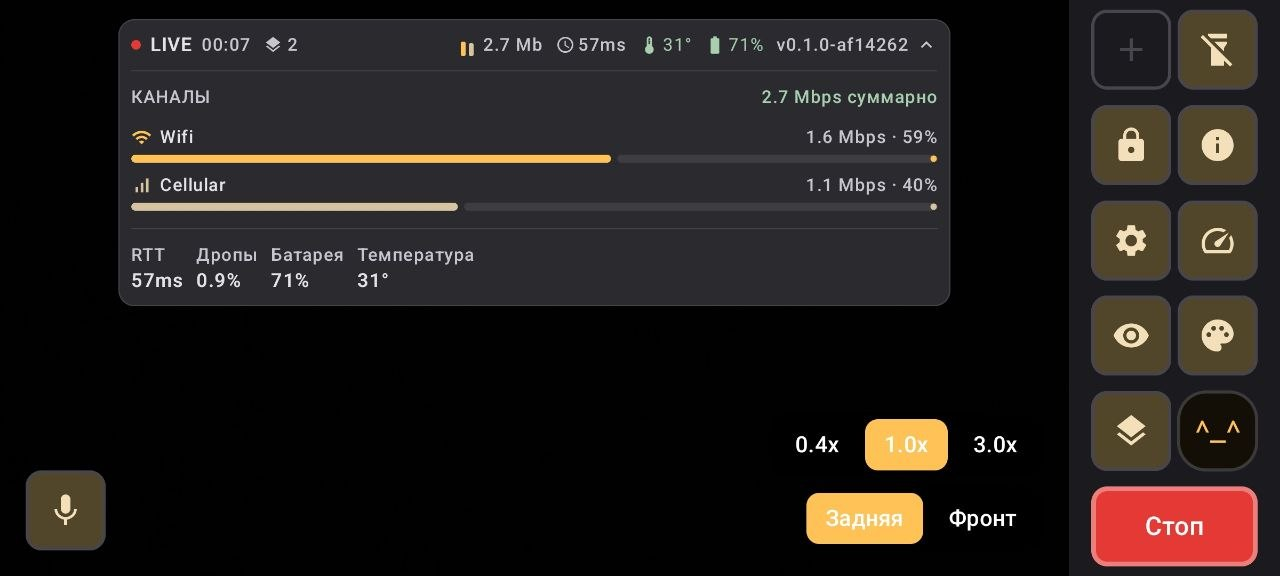
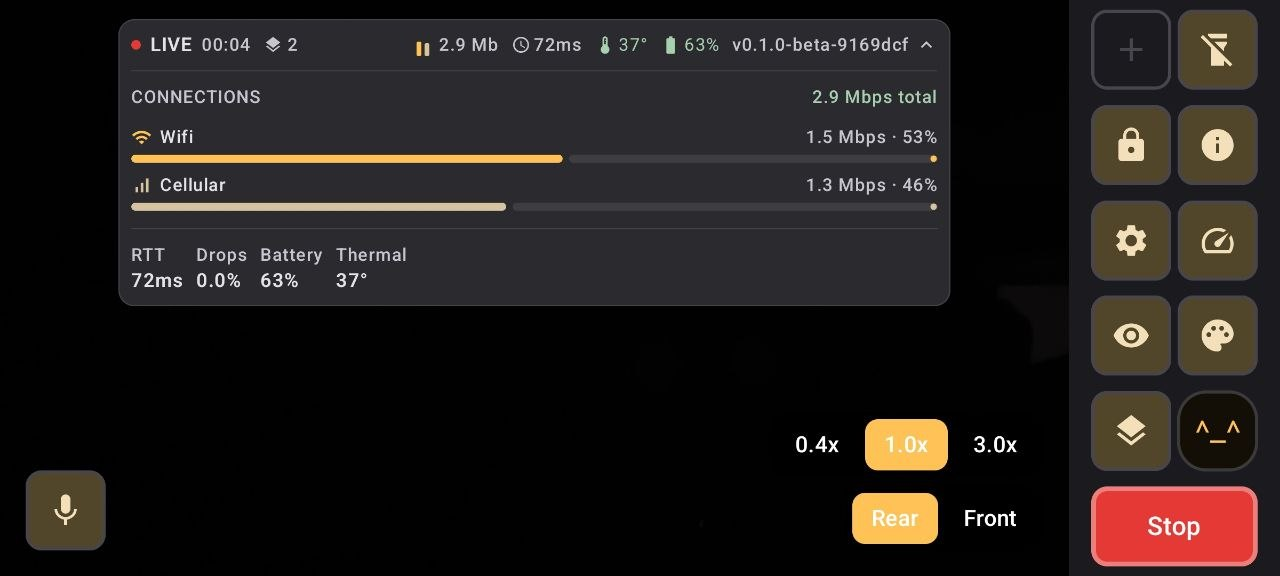
Перевод HUD, шаблоны issue, метаданные F-Droid
Две строки панели HUD были захардкожены по-русски при готовых переводах —
в английском интерфейсе показывались «Батарея» и «Температура».

Шаблоны issue: отчёт с устройства, ошибка, ссылка на обсуждения.
Метаданные F-Droid на двух языках, площадки не упоминаются — не проверяли.
Английские скриншоты обновлены.

diff --git a/ui/src/main/kotlin/app/brix/ui/StreamScreen.kt b/ui/src/main/kotlin/app/brix/ui/StreamScreen.kt
@@ -1715,8 +1715,12 @@ private fun HudCard(
             Row(modifier = Modifier.fillMaxWidth(), horizontalArrangement = Arrangement.spacedBy(8.dp)) {
                 MetricCell("RTT", firstRtt(state), false)
                 MetricCell(stringResource(R.string.hud_drops), "%.1f%%".format(java.util.Locale.US, dropPct), dropPct > 2f)
-                MetricCell("Батарея", if (telemetry.batteryPct >= 0) "${telemetry.batteryPct}%" else "—", batteryWarn)
-                MetricCell("Температура", thermalText(telemetry), thermalWarn)
+                MetricCell(
+                    stringResource(R.string.hud_battery),
+                    if (telemetry.batteryPct >= 0) "${telemetry.batteryPct}%" else "—",
+                    batteryWarn,
+                )
+                MetricCell(stringResource(R.string.hud_thermal), thermalText(telemetry), thermalWarn)
             }
         }
     }
